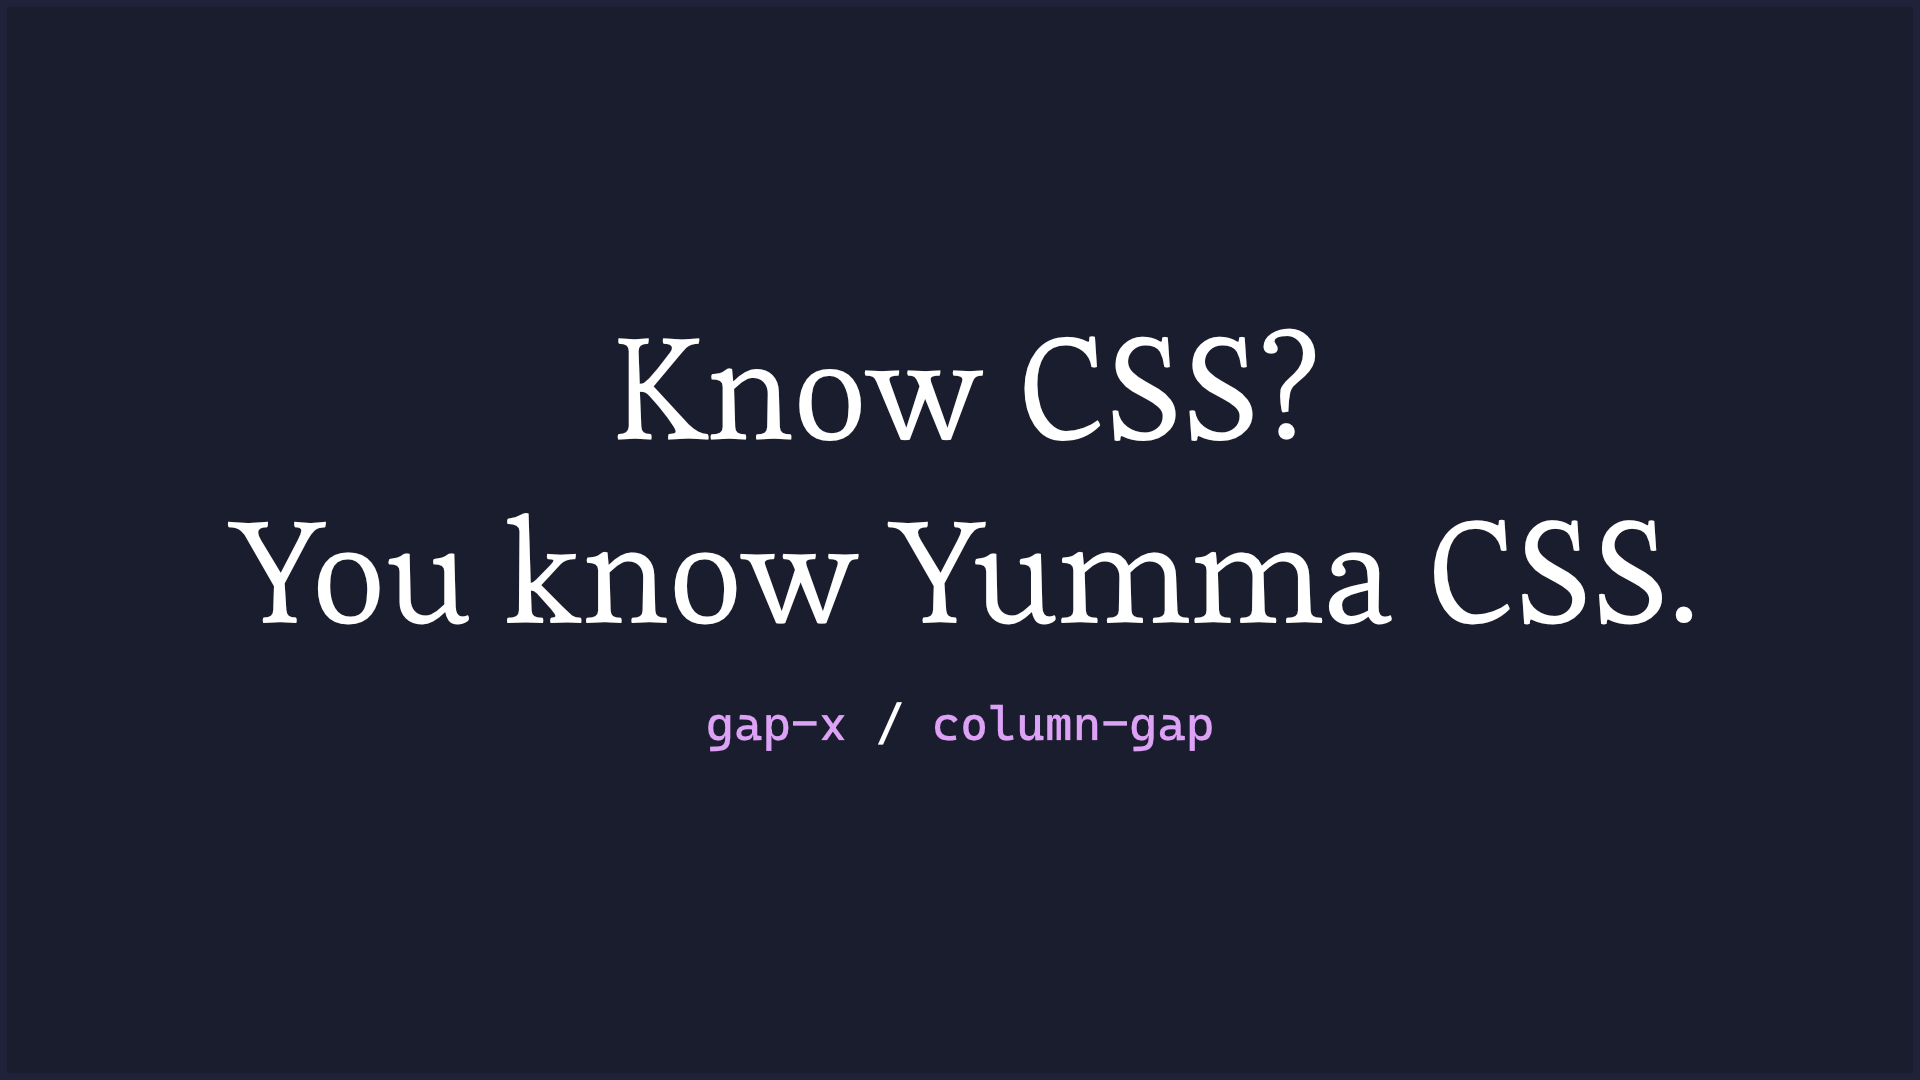
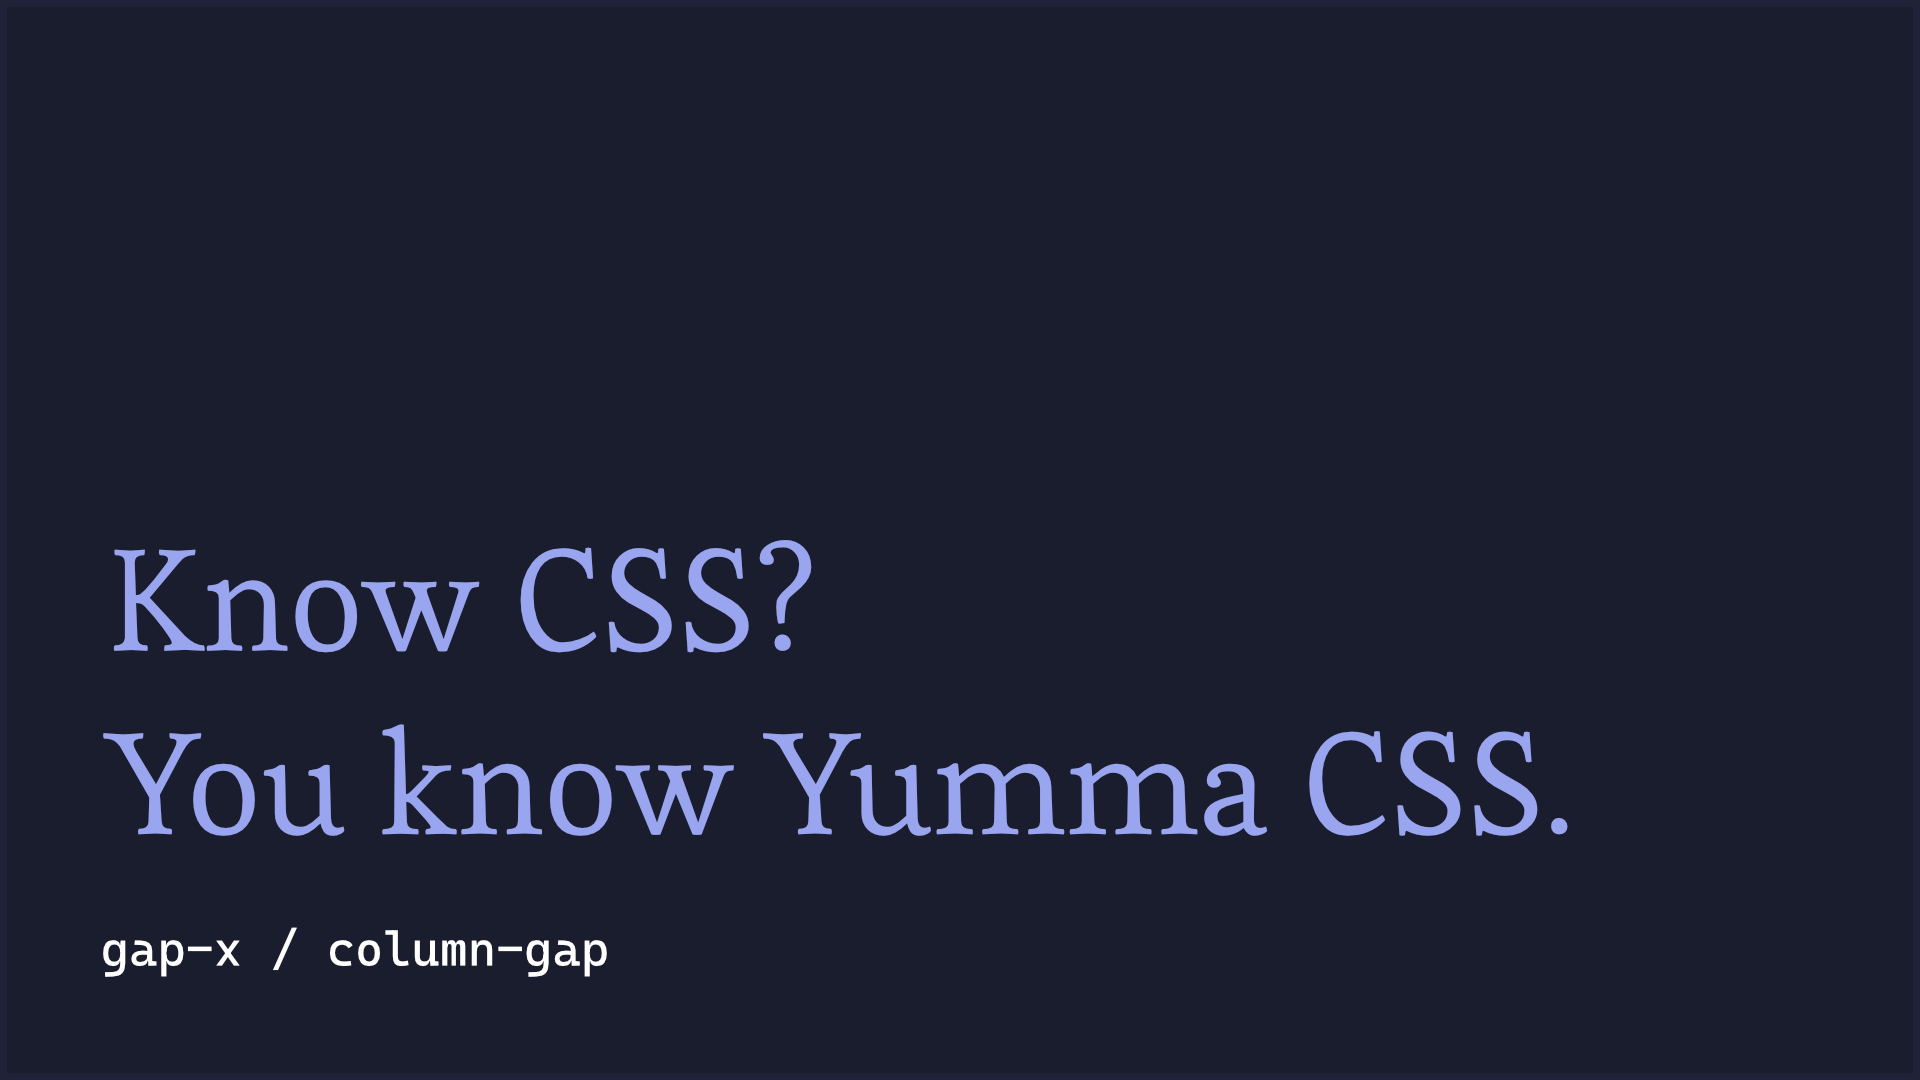
add corner-shape squircle to context menu clicking area and update know css blog post

diff --git a/src/registry/ui/context-menu-base.tsx b/src/registry/ui/context-menu-base.tsx
@@ -10,7 +10,7 @@ export default function ContextMenuBase() {
 
   return (
     <ContextMenu.Root open={open} onOpenChange={setOpen}>
-      <ContextMenu.Trigger className="bg-white d-f ai-c jc-c h-48 w-60 bc-slate-3 c-slate-10 bs-d bw-1 br-lg fs-sm fw-500 us-none">
+      <ContextMenu.Trigger className="bg-white d-f ai-c jc-c h-48 w-60 bc-slate-3 c-slate-10 bs-d bw-1 br-xxl cs-s fs-sm fw-500 us-none">
         Right-click task
       </ContextMenu.Trigger>
 

diff --git a/src/registry/ui/context-menu-checkboxes.tsx b/src/registry/ui/context-menu-checkboxes.tsx
@@ -14,7 +14,7 @@ export default function ContextMenuCheckboxes() {
 
   return (
     <ContextMenu.Root open={open} onOpenChange={setOpen}>
-      <ContextMenu.Trigger className="bg-white d-f ai-c jc-c h-48 w-60 bc-slate-3 c-slate-10 bs-d bw-1 br-lg fs-sm fw-500 us-none">
+      <ContextMenu.Trigger className="bg-white d-f ai-c jc-c h-48 w-60 bc-slate-3 c-slate-10 bs-d bw-1 br-xxl cs-s fs-sm fw-500 us-none">
         Right-click task
       </ContextMenu.Trigger>
 

diff --git a/src/registry/ui/context-menu-grouped.tsx b/src/registry/ui/context-menu-grouped.tsx
@@ -9,7 +9,7 @@ export default function ContextMenuGrouped() {
 
   return (
     <ContextMenu.Root open={open} onOpenChange={setOpen}>
-      <ContextMenu.Trigger className="bg-white d-f ai-c jc-c h-48 w-60 bc-slate-3 c-slate-10 bs-d bw-1 br-lg fs-sm fw-500 us-none">
+      <ContextMenu.Trigger className="bg-white d-f ai-c jc-c h-48 w-60 bc-slate-3 c-slate-10 bs-d bw-1 br-xxl cs-s fs-sm fw-500 us-none">
         Right-click task
       </ContextMenu.Trigger>
 

diff --git a/src/registry/ui/context-menu-icon-leading.tsx b/src/registry/ui/context-menu-icon-leading.tsx
@@ -10,7 +10,7 @@ export default function ContextMenuIcons() {
 
   return (
     <ContextMenu.Root open={open} onOpenChange={setOpen}>
-      <ContextMenu.Trigger className="bg-white d-f ai-c jc-c h-48 w-60 bc-slate-3 c-slate-10 bs-d bw-1 br-lg fs-sm fw-500 us-none">
+      <ContextMenu.Trigger className="bg-white d-f ai-c jc-c h-48 w-60 bc-slate-3 c-slate-10 bs-d bw-1 br-xxl cs-s fs-sm fw-500 us-none">
         Right-click task
       </ContextMenu.Trigger>
 

diff --git a/src/registry/ui/context-menu-icon-trailing.tsx b/src/registry/ui/context-menu-icon-trailing.tsx
@@ -10,7 +10,7 @@ export default function ContextMenuIconTrailing() {
 
   return (
     <ContextMenu.Root open={open} onOpenChange={setOpen}>
-      <ContextMenu.Trigger className="bg-white d-f ai-c jc-c h-48 w-60 bc-slate-3 c-slate-10 bs-d bw-1 br-lg fs-sm fw-500 us-none">
+      <ContextMenu.Trigger className="bg-white d-f ai-c jc-c h-48 w-60 bc-slate-3 c-slate-10 bs-d bw-1 br-xxl cs-s fs-sm fw-500 us-none">
         Right-click task
       </ContextMenu.Trigger>
 

diff --git a/src/registry/ui/context-menu-nested.tsx b/src/registry/ui/context-menu-nested.tsx
@@ -10,7 +10,7 @@ export default function ContextMenuNested() {
 
   return (
     <ContextMenu.Root open={open} onOpenChange={setOpen}>
-      <ContextMenu.Trigger className="bg-white d-f ai-c jc-c h-48 w-60 bc-slate-3 c-slate-10 bs-d bw-1 br-lg fs-sm fw-500 us-none">
+      <ContextMenu.Trigger className="bg-white d-f ai-c jc-c h-48 w-60 bc-slate-3 c-slate-10 bs-d bw-1 br-xxl cs-s fs-sm fw-500 us-none">
         Right-click task
       </ContextMenu.Trigger>
 

diff --git a/src/registry/ui/context-menu-radios.tsx b/src/registry/ui/context-menu-radios.tsx
@@ -12,7 +12,7 @@ export default function ContextMenuRadios() {
 
   return (
     <ContextMenu.Root open={open} onOpenChange={setOpen}>
-      <ContextMenu.Trigger className="bg-white d-f ai-c jc-c h-48 w-60 bc-slate-3 c-slate-10 bs-d bw-1 br-lg fs-sm fw-500 us-none">
+      <ContextMenu.Trigger className="bg-white d-f ai-c jc-c h-48 w-60 bc-slate-3 c-slate-10 bs-d bw-1 br-xxl cs-s fs-sm fw-500 us-none">
         Right-click task
       </ContextMenu.Trigger>
 

diff --git a/src/registry/ui/context-menu-shortcuts.tsx b/src/registry/ui/context-menu-shortcuts.tsx
@@ -10,7 +10,7 @@ export default function ContextMenuShortcuts() {
 
   return (
     <ContextMenu.Root open={open} onOpenChange={setOpen}>
-      <ContextMenu.Trigger className="bg-white d-f ai-c jc-c h-48 w-60 bc-slate-3 c-slate-10 bs-d bw-1 br-lg fs-sm fw-500 us-none">
+      <ContextMenu.Trigger className="bg-white d-f ai-c jc-c h-48 w-60 bc-slate-3 c-slate-10 bs-d bw-1 br-xxl cs-s fs-sm fw-500 us-none">
         Right-click task
       </ContextMenu.Trigger>
 

diff --git a/src/registry/ui/context-menu-static.tsx b/src/registry/ui/context-menu-static.tsx
@@ -9,7 +9,7 @@ export default function ContextMenuStatic() {
 
   return (
     <ContextMenu.Root open={open} onOpenChange={setOpen}>
-      <ContextMenu.Trigger className="bg-white d-f ai-c jc-c h-48 w-60 bc-slate-3 c-slate-10 bs-d bw-1 br-lg fs-sm fw-500 us-none">
+      <ContextMenu.Trigger className="bg-white d-f ai-c jc-c h-48 w-60 bc-slate-3 c-slate-10 bs-d bw-1 br-xxl cs-s fs-sm fw-500 us-none">
         Right-click task
       </ContextMenu.Trigger>
 